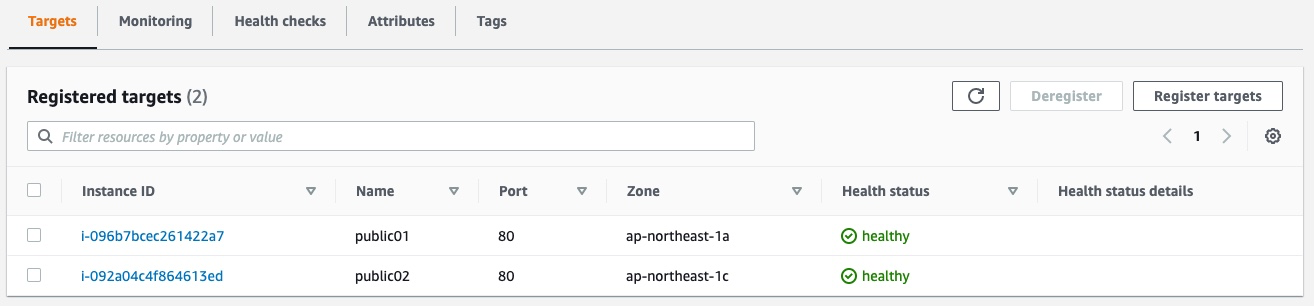
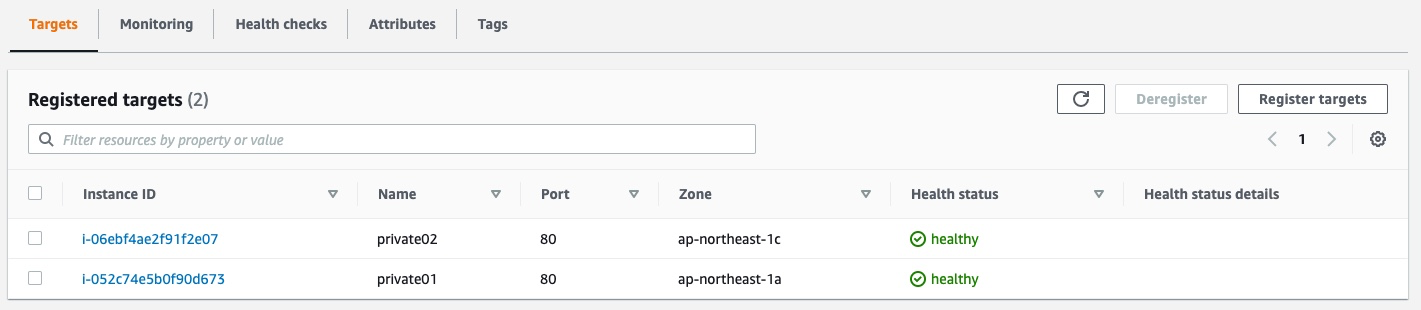
プライベートサブネットのEC2インスタンスでHTMLを返すように変更

diff --git a/05_cloud_infrastructure/03_alb/answer.md b/05_cloud_infrastructure/03_alb/answer.md
@@ -1,6 +1,15 @@
 ## 課題１
-### Nginxの導入・起動
-作成したEC2インスタンスで、以下のコマンドを実行する。
+
+### NAT ゲートウェイ
+
+プライベートサブネットの EC2 インスタンスに Nginx をインストールするために、NAT ゲートウェイを作成する。
+（サブネットはパブリックサブネットを選択する）
+![](./images/create_nat_gateway.png)
+
+### Nginx の導入・起動
+
+プライペートサブネットの EC2 インスタンスで、以下のコマンドを実行する。
+
 ```shell
 sudo amazon-linux-extras install nginx1
 
@@ -13,18 +22,23 @@ sudo systemctl status nginx
 ```
 
 ### セキュリティグループの作成
-HTTP通信を許可するために、80ポートを開放するセキュリティグループを作成し、EC2インスタンスに追加する。
 
-### Nginxがhtmlを返すことを確認
-ブラウザでEC2インスタンスにアクセスすると、Nginxのデフォルトのページが表示される。
+HTTP 通信を許可するために、80 ポートを開放するセキュリティグループを作成し、プライベートサブネットの EC2 インスタンスに追加する。
+
+### Nginx が html を返すことを確認
+
+ブラウザで EC2 インスタンスにアクセスすると、Nginx のデフォルトのページが表示される。
 ![](./images/nginx.png)
 
-### 内容が異なるhtmlページの作成
-上記手順を繰り返し、Nginxのデフォルトのページが表示されるEC2インスタンスを用意する。
-片方のEC2インスタンスで`hello from AZ 1`, もう片方のEC2インスタンスで`hello from AZ 2`が表示されるように、htmlファイルを書き換える。
+### 内容が異なる html ページの作成
+
+上記手順を繰り返し、Nginx のデフォルトのページが表示される EC2 インスタンスを用意する。
+片方の EC2 インスタンスで`hello from AZ 1`, もう片方の EC2 インスタンスで`hello from AZ 2`が表示されるように、html ファイルを書き換える。
+
 ```shell
 sudo vim /usr/share/nginx/html/index.html
 ```
+
 ```diff
  <body>
 -  <h1>Welcome to <strong>nginx</strong> on Amazon Linux!</h1>
@@ -41,34 +55,41 @@ sudo vim /usr/share/nginx/html/index.html
  </body>
 ```
 
-### ALBの作成
-ALBを作成する。
+### ALB の作成
+
+ALB を作成する。
 ![](./images/create_alb.png)
 
-ターゲットグループで、上記で作成したEC2インスタンスをそれぞれ登録する。
+ターゲットグループで、プラペートサブネットの EC2 インスタンスをそれぞれ登録する。
 ![](./images/target_group.png)
 
-### ALBにアクセス
-ブラウザから作成したALBのAレコードにアクセスすると、`hello from AZ 1`を表示するページと`hello from AZ 2`を表示するページが交互に表示される（ランダムではなかった）。
+### ALB にアクセス
 
-### 片方のEC2インスタンスを停止する。
-`hello from AZ 2`を表示するEC2インスタンスを停止する。
+ブラウザから作成した ALB の A レコードにアクセスすると、`hello from AZ 1`を表示するページと`hello from AZ 2`を表示するページが交互に表示される（ランダムではなかった）。
+
+### 片方の EC2 インスタンスを停止する。
+
+`hello from AZ 2`を表示する EC2 インスタンスを停止する。
 ![](./images/stop_ec2.png)
 
-その後ALBのAレコードにアクセスすると、`hello from AZ 1`のみが表示されることが確認できる。
+その後 ALB の A レコードにアクセスすると、`hello from AZ 1`のみが表示されることが確認できる。
 
 ## その他
-ELBには、ALB、NLB、CLBの3種類がある。
+
+ELB には、ALB、NLB、CLB の 3 種類がある。
 
 ### ALB（Application Load Balancer）
-HTTPおよびHTTPSに最適なロードバランサーで、OSI参照モデルにおけるアプリケーション層で動作する。
-対応プロトコル: HTTP, HTTPS 
+
+HTTP および HTTPS に最適なロードバランサーで、OSI 参照モデルにおけるアプリケーション層で動作する。
+対応プロトコル: HTTP, HTTPS
 
 ### NLB（Network Load Balancer）
-OSI参照モデルにおけるトランスポート層で動作する。
+
+OSI 参照モデルにおけるトランスポート層で動作する。
 対応プロトコル: TCP, TLS
 
 ### CLB（Classic Load Balancer）
-元々、AWSのロードバランシングサービスはELBだけだった。その後ALBが追加されたことで、従来のELBはCLBに名称変更された。
-従来のELBを使ったシステムの後方互換性のために残されているもので、新たに採用される機会はほとんどない。
+
+元々、AWS のロードバランシングサービスは ELB だけだった。その後 ALB が追加されたことで、従来の ELB は CLB に名称変更された。
+従来の ELB を使ったシステムの後方互換性のために残されているもので、新たに採用される機会はほとんどない。
 対応プロトコル: TCP, SSL/TLS, HTTP, HTTPS
